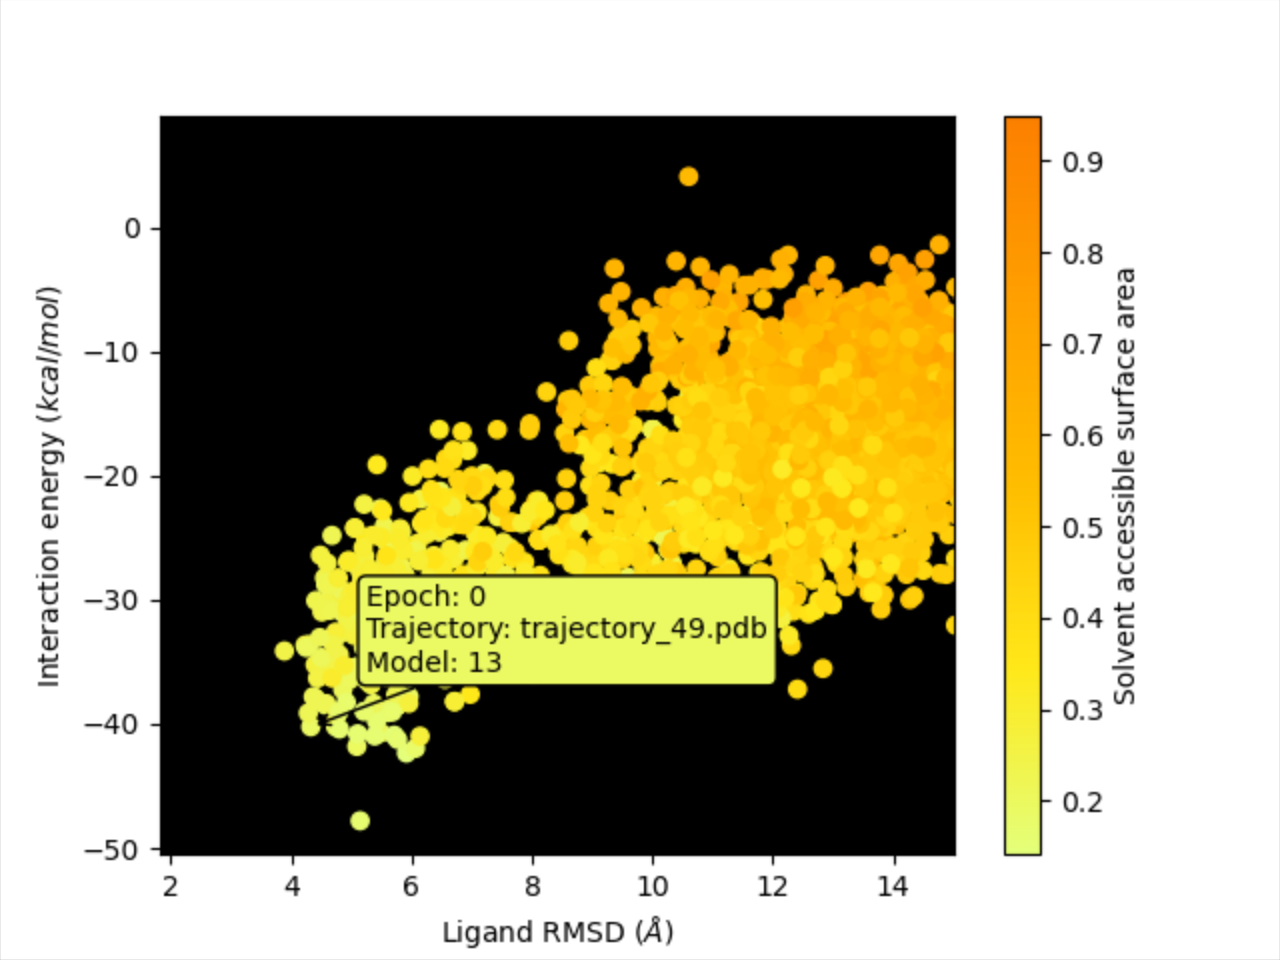
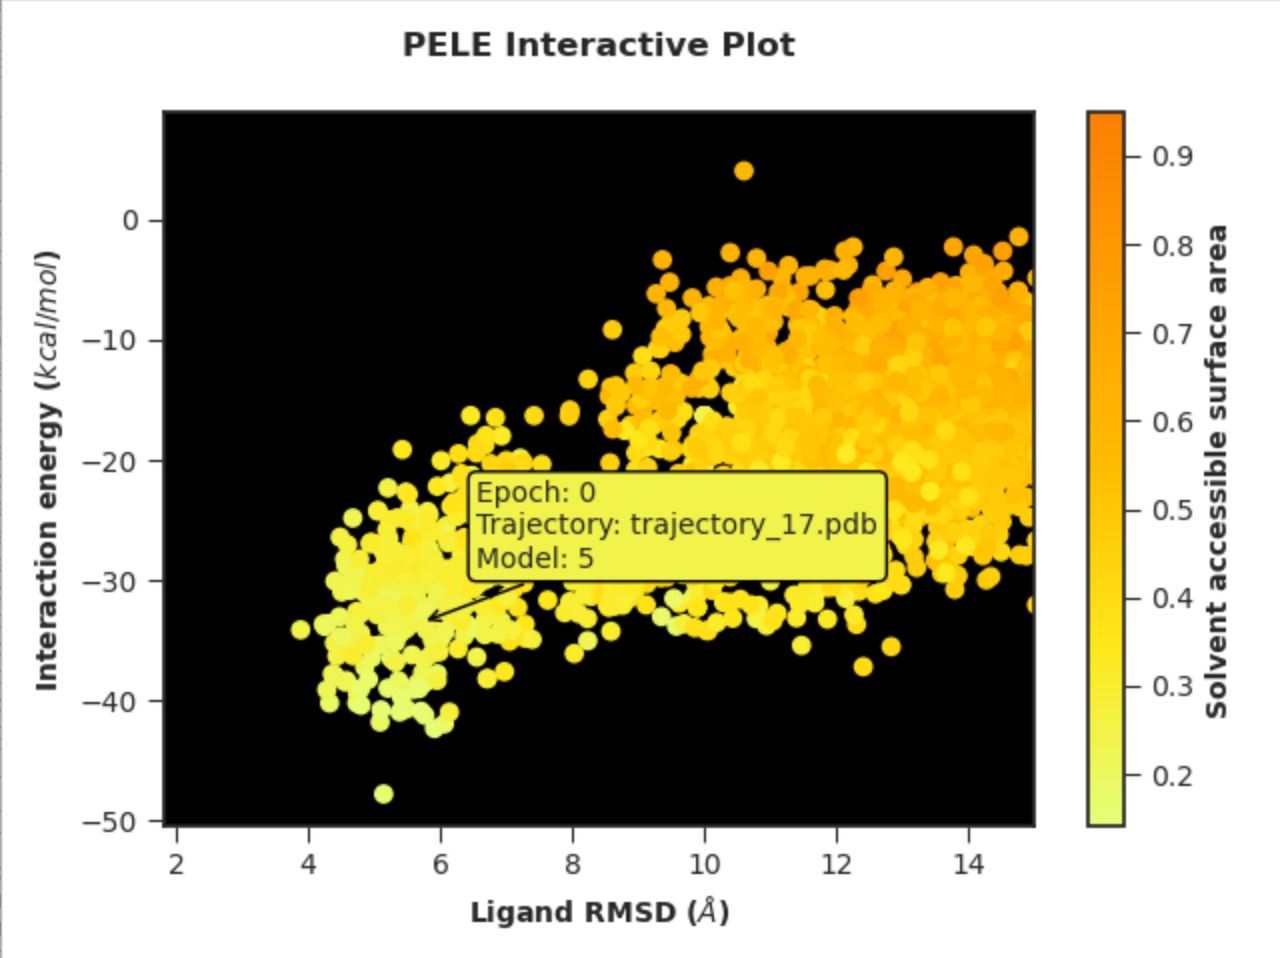
Plotter tutorial v2 - updated plots

Changed region(s): [[0.0, 0.0908, 0.9688, 0.999], [0.3125, 0.0303, 0.625, 0.0605], [0.5312, 0.1514, 0.5938, 0.2119]]

diff --git a/docs/build_docs/source/tutorials/plotter.rst b/docs/build_docs/source/tutorials/plotter.rst
@@ -108,14 +108,16 @@ Draw custom **vertical and horizontal lines** to highlight relevant thresholds o
 
 Where ``n`` is the point of intercept on the axis and ``color`` corresponds to the desired colour of the line.
 
-Axis labels
-++++++++++++
+Axis labels and title
+++++++++++++++++++++++
 
 Override the default **axis labels** by passing a string after the metric column number, e.g.
 
 .. code-block:: console
 
     python -m pele_platform.plotter -o /home/LIG_Pele/output/ -t scatter -x 7" RMSD of the ligand" -y 5 ...
+
+To add a **custom title** to your figure, all you have to do is use ``--title`` argument and supply a string with your desired text.
 
 Values range
 +++++++++++++
@@ -135,10 +137,17 @@ You can plot only the relevant data by setting limits to the scope of values plo
 Other
 +++++++++
 
-Finally, you can further customize the **density plot** by using:
+You can further customize the **density plot** by using:
 
     - ``--with_edges`` argument to visualise the distribution on the plot area
     - ``--n_levels`` to adjust the number of levels shown on the plot area.
+
+Finally, the Nostrum Biodiscovery **logo** can be hidden by using ``--hide_logo`` argument.
+
+Saving to file
+-----------------
+
+If you want to save plot **to file** instead of displaying it, use ``--save_to`` argument and supply a path to file (this option does not apply to interactive plots).
 
 Examples
 ----------
@@ -147,7 +156,7 @@ Examples
 
 .. code-block:: console
 
-    python -m pele_platform.plotter -o /home/LIG_Pele/output/ -t density -x 7 -y 5
+    python -m pele_platform.plotter -o /home/LIG_Pele/output/ -t density -x 7 -y 5 --hide_logo
 
 .. image:: ../img/plotter_example1.png
   :width: 400
@@ -157,7 +166,7 @@ Examples
 
 .. code-block:: console
 
-    python -m pele_platform.plotter -o /home/LIG_Pele/output/ -t scatter -x 7 -y 5 -z 6 --colormap reducedgreens --vertical_line 5.0 yellow --horizontal_line -35.5 red
+    python -m pele_platform.plotter -o /home/LIG_Pele/output/ -t scatter -x 7 -y 5 -z 6 --colormap reducedgreens --vertical_line 5.0 yellow --horizontal_line -35.5 red --hide_logo
 
 .. image:: ../img/plotter_example2.png
   :width: 400
@@ -167,7 +176,7 @@ Examples
 
 .. code-block:: console
 
-    python -m pele_platform.plotter -o /home/LIG_Pele/output/ -t interactive --xhighest 15 -x 7 "Ligand RMSD" -y 5 "Interaction energy" -z 6 "Solvent accessible surface area" --colormap wistia --background_color black
+    python -m pele_platform.plotter -o /home/LIG_Pele/output/ -t interactive --xhighest 15 -x 7 "Ligand RMSD" -y 5 "Interaction energy" -z 6 "Solvent accessible surface area" --colormap wistia --background_color black --hide_logo
 
 .. image:: ../img/plotter_example3.png
   :width: 400
@@ -177,7 +186,7 @@ Examples
 
 .. code-block:: console
 
-    python -m pele_platform.plotter -o /home/LIG_Pele/output/ -t density --with_edges --n_levels 10 --color orange
+    python -m pele_platform.plotter -o /home/LIG_Pele/output/ -t density --with_edges --n_levels 10 --color orange --hide_logo --title "Density plot with edges" -x 7 -y 5 -z 6
 
 .. image:: ../img/plotter_example4.png
   :width: 400
